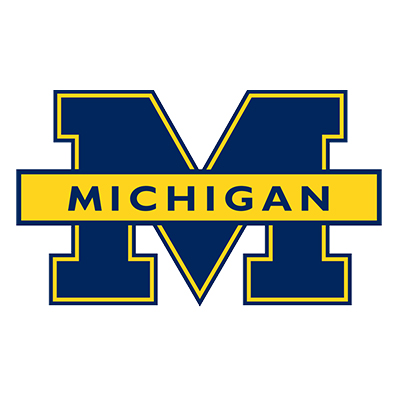
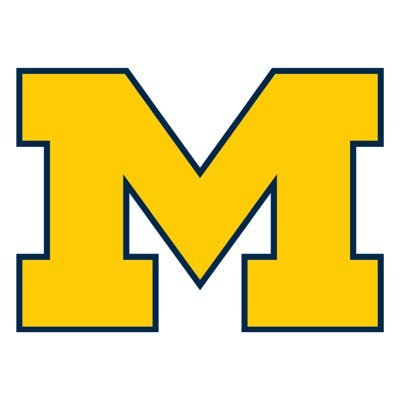
Add new photos. Tried to change to Images folder
Updated images for a few schools, tried to organize all of my code
better.

diff --git a/src/reducers/reducer_blog.js b/src/reducers/reducer_blog.js
@@ -4,19 +4,19 @@ export default function() {
       title: "Michigan",
       description: "University of Michigan has a unique history",
       content: "This is the paragraph about my story and the article ad",
-      image: "./Michigan.jpg"
+      image: "./michigan.jpg"
     },
     {
       title: "Ohio State",
       description: "Shit State",
       content: "Easily the worst school in the Big 10. Universally disliked.",
-      image: "./osu-logo.png"
+      image: "./ohiostate.jpg"
     },
     {
       title: "Michigan State",
       description: "Michigan State is bad",
       content: "Grand River sucks",
-      image: "./michigan-state.png"
+      image: "./michiganstate.gif"
     },
     {
       title: "Northwestern",
